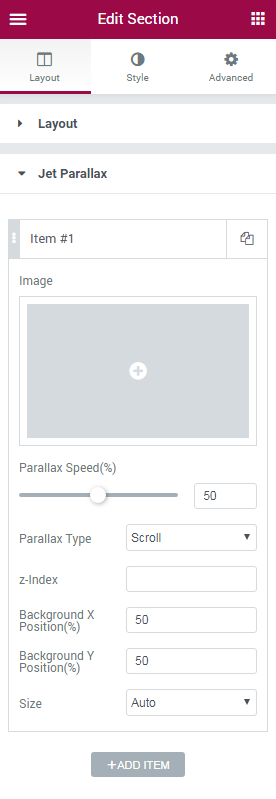
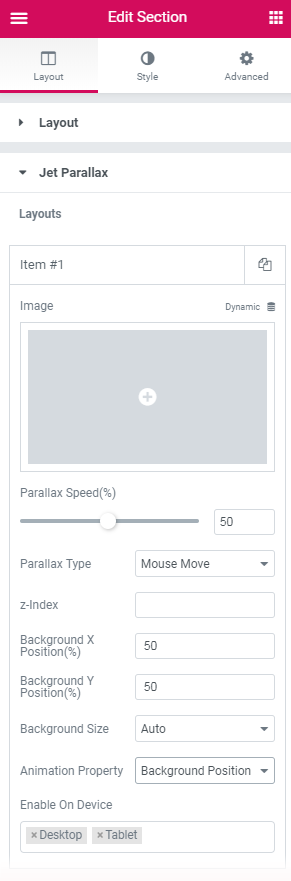
jetelements updates

diff --git a/sections/jetelements-modules/en/headline.php b/sections/jetelements-modules/en/headline.php
@@ -40,10 +40,10 @@ Headline widget is the perfect tool for creating stunningly beautiful headlines 
 <p><li><b>Direction</b> - here you can set the preferable headline direction. It can arrange text using <b>horizontal</b> or <b>vertical</b> alignment.</li></p>
 <p><li><b>Space between</b> - when using horizontal alignment, you can choose whether it is necessary to add the space between the two parts of the heading.</li></p>
 <p><li><b>Alignment</b> - here you can select the needed alignment for the headline text (<b>left, center, right</b>).</li></p>
-<p><li><b>Background type</b> - in this block you can choose, whether you want to use <b>classic</b> or <b>gradient</b> type for the headline. The customization options vary for each type. The settings are similar to the common background type settings for other <b>JetElements</b> widget.</li></p>
+<p><li><b>Background Type</b> - in this block you can choose, whether you want to use <b>classic</b> or <b>gradient</b> type for the headline. The customization options vary for each type. The settings are similar to the common background type settings for other <b>JetElements</b> widget.</li></p>
 <p><li><b>Padding</b> - here you can set the preferable custom padding for the headline. Fill in the values for the <b>top, bottom, right</b> and </b>left</li> padding in pixels to apply your custom padding.</li></p>
 <p><li><b>Margin</b> - input the values for the headline margins in the required fields.
-<p><li><b>Border type</b> - here you can define the needed border type for the headline block. It can be <b>dotted, dashed, double</b> or <b>solid</b>.</li></p>
+<p><li><b>Border Type</b> - here you can define the needed border type for the headline block. It can be <b>dotted, dashed, double</b> or <b>solid</b>.</li></p>
 <p><li><b>Border radius</b> - here you can set the border radius for the chosen border to make the border angles more round.</li></p></ul>
 
 <h6>First part</h6>
@@ -51,9 +51,25 @@ Headline widget is the perfect tool for creating stunningly beautiful headlines 
 <ul class="marked-list">
 <p><li><b>Text color</b> - here you can change the first part of the headline text color using color picker.</li></p>
 <p><li><b>Typography</b> - turn the option on to view the typography settings. They are similar to the typography settings of other <b>JetElements</b> widget.</li></p>
-<p><li><b>Background type</b> - in this block you can choose, whether you want to use <b>classic</b> or <b>gradient</b> type for the headline’s first part. The customization options vary for each type. The settings are similar to the common background type settings for other <b>JetElements</b> widget.</li></p>
-<p><li><b>Border type</b> - here you can define the type of the border you need to use for the element.</li></p>
-<p><li><b>Border radius</b> - here you can set the border radius for the chosen border to make the border angles more round.</li></p>
+<p><li><b>Background Type</b> - in this block you can choose, whether you want to use <b>classic</b> or <b>gradient</b> type for the headline’s first part. The customization options vary for each type. The settings are similar to the common background type settings for other <b>JetElements</b> widget.</li></p>
+<p><li><b>Use Text Image</b> - enable this option if you want to apply the image or gradient for the text of the headline’s first part.</li></p>
+<p>Here you can switch from customizing <b>Image</b> to <b>Gradient</b> style settings.</p>
+<p>Click on the button <b>Image</b> to proceed to customizing gradient elements.</p>
+<ul class="marked-list">
+<p><li><b>Text Image</b> - here you can select the image for the text of the headline’s first part.</li></p>
+<p><li><b>Background Position</b> - here you can define the position of the text image on the headline’s first part background.</li></p>
+<p><li><b>Background Repeat</b> - here you can set the repetition of the text image on the headline’s first part background.</li></p>
+<p><li><b>Background Size</b> - here you can determine the size of the text image on the headline’s first part background.</li></p>
+<p>Click on the button <b>Gradient</b> to proceed to customizing gradient elements.
+<ul class="marked-list">
+<p><li><b>Color</b> -  here you can set background color for the text of the headline’s first part using color picker tool.</li></p>
+<p><li><b>Location</b> - here you can define the proportion for the first color in the gradient background.</li></p>
+<p><li><b>Second Color</b> - here you can set the second color to use in the gradient background.</li></p>
+<p><li><b>Location</b> - here you can define the location for the second color in the gradient background.</li></p>
+<p><li><b>Type</b> - define, if you want to use linear or radial type of the gradient.</li></p>
+<p><li><b>Angle</b> - in this block you can set the angle for the gradient (in degrees).</li></p>
+<p><li><b>Border Type</b> - here you can define the type of the border you need to use for the element.</li></p>
+<p><li><b>Border Radius</b> - here you can set the border radius for the chosen border to make the border angles more round.</li></p>
 <p><li><b>Padding</b> - here you can set the preferable custom padding for the first part of the headline. Fill in the values for the <b>top, bottom, right</b> and <b>left</b> padding in pixels to apply your custom padding.</li></p>
 <p><li><b>Margin</b> - here you can define the margins for the first part of the headline.</li></p>
 <p><li><b>Alignment</b> - here you can define the preferable alignment for the first part of the text. It can be placed to the left, to the right, or remain centered.</li></p></ul>
@@ -61,10 +77,10 @@ Headline widget is the perfect tool for creating stunningly beautiful headlines 
 <h6>Second part</h6>
 
 <ul class="marked-list">
-<p><li><b>Text color</b> - here you can change the text color of the second part of the headline using color picker.</li></p>
+<p><li><b>Text Color</b> - here you can change the text color of the second part of the headline using color picker.</li></p>
 <p><li><b>Typography</b> - turn the option on to view the typography settings. They are similar to the typography settings of other <b>JetElements</b> widget.</li></p>
-<p><li><b>Background type</b> - in this block you can choose, whether you want to use <b>classic</b> or <b>gradient</b> type for the headline’s second part. The customization options vary for each type. The settings are similar to the common background type settings for other <b>JetElements</b> widget.</li></p>
-<p><li><b>Border radius</b> - here you can set the border radius for the chosen border to make the border angles more round.</li></p>
+<p><li><b>Background Type</b> - in this block you can choose, whether you want to use <b>classic</b> or <b>gradient</b> type for the headline’s second part. The customization options vary for each type. The settings are similar to the common background type settings for other <b>JetElements</b> widget.</li></p>
+<p><li><b>Border Radius</b> - here you can set the border radius for the chosen border to make the border angles more round.</li></p>
 <p><li><b>Padding</b> - here you can set the preferable custom padding for the second part of the headline. Fill in the values for the <b>top, bottom, right</b> and <b>left</b> padding in pixels to apply your custom padding.</li></p>
 <p><li><b>Margin</b> - here you can define the margins for the second part of the headline.</li></p>
 <p><li><b>Alignment</b> - here you can define the preferable alignment for the second part of the text. It can be placed to the <b>left</b>, to the <b>right</b>, or remain <b>centered</b>.</li></p></ul>
@@ -74,22 +90,22 @@ Headline widget is the perfect tool for creating stunningly beautiful headlines 
 <b>Before Deco Element</b>
 
 <ul class="marked-list">
-<p><li><b>Before Deco type</b> - here you can select the needed decoration type to place it before the headline element. It can be <b>Icon element, Image element</b>, or you can select <b>None</b> to use neither of these decorations.</li></p>
+<p><li><b>Before Deco Type</b> - here you can select the needed decoration type to place it before the headline element. It can be <b>Icon element, Image element</b>, or you can select <b>None</b> to use neither of these decorations.</li></p>
 <p><li><b>Before Icon</b> - when you select <b>Icon deco type</b>, you can specify the icon in this field.</li></p>
 <p><li><b>Before Icon Color</b> -  here you can specify the color of the icon using color picker tool.</li></p>
 <p><li><b>Before Icon Size</b> - use the controls to change the icon size or type in the size value in px in the corresponding field.</li></p>
 <p><li><b>Margin</b> - here you can define the margins for the icon.</li></p>
 <p><li><b>Alignment</b> -  here you can define the preferable icon alignment. It can be placed to the left, to the right, or remain centered.</li></p>
-<p><li><b>Before image</b> - in the case you’ve chosen <b>Image deco type</b>, you’ll be able to upload or select from the media library an image to use it as a decoration of the headline.</li></p>
-<p><li><b>Before image size</b> - here you can define the size of the selected image.</li></p></ul>
+<p><li><b>Before Image</b> - in the case you’ve chosen <b>Image deco type</b>, you’ll be able to upload or select from the media library an image to use it as a decoration of the headline.</li></p>
+<p><li><b>Before Image Size</b> - here you can define the size of the selected image.</li></p></ul>
 
 <b>After Deco Element</b>
 
 <ul class="marked-list">
 <p><li><b>After Deco Type</b> - here you can select the needed decoration type to place it after the headline element. It can be <b>Icon element, Image element</b>, or you can select <b>None</b> to use neither of these decorations.</li></p>
-<p><li><b>After Icon color</b> - here you can specify the color of the icon using color picker tool.</li></p>
-<p><li><b>After icon size</b> - use the controls to change the icon size or type in the size value in px in the corresponding field.</li></p>
+<p><li><b>After Icon Color</b> - here you can specify the color of the icon using color picker tool.</li></p>
+<p><li><b>After icon Size</b> - use the controls to change the icon size or type in the size value in px in the corresponding field.</li></p>
 <p><li><b>Margin</b> - here you can define the margins for the icon.</li></p>
 <p><li><b>Alignment</b> - here you can define the preferable icon alignment. It can be placed to the left, to the right, or remain centered.</li></p>
-<p><li><b>After image</b> - in the case you’ve chosen <b>Image deco type</b>, you’ll be able to upload or select from the media library an image to use it as a decoration of the headline.</li></p>
-<p><li><b>After image size</b> - here you can define the size of the selected image.</li></p></ul>
+<p><li><b>After Image</b> - in the case you’ve chosen <b>Image deco type</b>, you’ll be able to upload or select from the media library an image to use it as a decoration of the headline.</li></p>
+<p><li><b>After Image Size</b> - here you can define the size of the selected image.</li></p></ul>

diff --git a/sections/jetelements-modules/en/portfolio.php b/sections/jetelements-modules/en/portfolio.php
@@ -22,11 +22,12 @@ Portfolio widget allows displaying Portfolio in the form of eye-catching layouts
   	</figure>
 
 <ul class="marked-list">
-<p><li><b>Layout type</b> - here you can select the needed layout type to use for the portfolio (masonry, grid, justify, list).
+<p><li><b>Layout Type</b> - here you can select the needed layout type to use for the portfolio (masonry, grid, justify, list).
 </li></p>
 <p><li><b>Preset</b> - here you can pick the preferable preset to use for the portfolio items.</li></p>
 
 <p><li><b>Columns</b> - here you can set the preferable number of columns (from 1 to 6). </li></p>
+<p><li><b>'All' Filter Label</b> - here you can indicate the label for the all filters. </li></p>
 
 <p><li><b>View More Button</b> - enable this option in order to add a View More button to the portfolio. </li></p>
 
@@ -51,7 +52,8 @@ Portfolio widget allows displaying Portfolio in the form of eye-catching layouts
 
 <p><li><b>Link Text</b> - here you can add the link text to be shown for the item. </li></p>
 
-<p><li><b>Link URL</b> - input the link URL in the corresponding field.</li></p></ul>
+<p><li><b>Link URL</b> - input the link URL in the corresponding field.</li></p>
+<p><li><b>Title HTML Tag</b> - here you can select the HTML tag (div, or heading) to apply for the title. </li></p></ul>
 
 
 <h4>Style</h4>
@@ -100,6 +102,7 @@ Portfolio widget allows displaying Portfolio in the form of eye-catching layouts
 <p><li><b>Separator Size</b> - here you can adjust the separator icon size to make it suitable and responsive. </li></p>
 
 <p><li><b>Alignment</b> - change the alignment to the left, right or centered and make it responsive using the responsiveness modes. </li></p>
+<p>Here you can switch from customizing the filter items in the <b>Normal</b> mode to styling them up in <b>Hover</b> mode and <b>Active</b> mode. To do it just switch between this three modes.
 
 <p><li><b>Color</b> - here you can change the color of the categories using color picker tool. </li></p>
 
@@ -110,15 +113,11 @@ Portfolio widget allows displaying Portfolio in the form of eye-catching layouts
 <p><li><b>Padding</b> - input the preferable responsive padding values in order to set the paddings for the portfolio. </li></p>
 
 <p><li><b>Margin</b> - here you can specify the responsive margins. </li></p>
-
 <p><li><b>Border Type</b> - here you can select one of the available border types to use: none, solid, double, dotted, dashed or groove.</li></p>
 <p><li><b>Width</b> - here you can define the width of the border in px.</li></p>
 <p><li><b>Color</b> - here you can change the color of the borders.</li></p>
 <p><li><b>Border Radius</b> - here you can set the border radius for the chosen border to make the border angles more round.</li></p>
-
-
 <p><li><b>Box Shadow</b> - click on the pencil icon to access the shadow option and apply the shadow for the element.</li></p></ul>
-
 
 
 <h5>Content</h5>
@@ -245,10 +244,7 @@ Portfolio widget allows displaying Portfolio in the form of eye-catching layouts
 
 <ul class="marked-list">
 <p><li><b>Cover Icon</b> - here you can define the icon for the cover from the list of available icons.</li></p>
-
-<p><li><b>Background Type</b> - in this block you can choose, whether you want to use classic or gradient type for the widget containers. The customization options vary for each type.
-
-<p><li><b>Cover Icon Settings:</b>
+<p><li><b>Cover Icon Style</b> - here you can set the style settings of the cover icon:
 
 <ul class="marked-list">
 <p><li><b>background type;</b></li></p>
@@ -259,7 +255,28 @@ Portfolio widget allows displaying Portfolio in the form of eye-catching layouts
 <p><li><b>border radius;</b></li></p>
 <p><li><b>box shadow.</b></li></p></ul>
 
+<p><li><b>Background Type</b> - in this block you can choose, whether you want to use <b>Classic</b> or <b>Gradient</b> type for the widget containers. The customization options vary for each type.
 
+<p>Click on the button <b>Classic</b> to proceed to customizing classic type.
+<ul class="marked-list">
+<p><li><b>Color</b> -  here you can set background color for the cover using color picker tool.</li></p>
+<p><li><b>Image</b> - here you can define the background image for the cover.</li></p>
+<p><li><b>Position</b> - here you can define the position of the background image.</li></p>
+<p><li><b>Attachment</b> - here you can define the attachment of the background image.</li></p>
+<p><li><b>Repeat</b> - here you can define the repetition of the background image.</li></p>
+<p><li><b>Size</b> - here you can define the size of the background image.</li></p>
+
+<p>Click on the button <b>Gradient</b> to proceed to customizing gradient type.
+<ul class="marked-list">
+<p><li><b>Color</b> -  here you can set background color for the cover using color picker tool.</li></p>
+<p><li><b>Image</b> - here you can define the background image for the cover.</li></p>
+<p><li><b>Location</b> - here you can define the proportion for the first color in the gradient background.</li></p>
+<p><li><b>Second Color</b> - here you can set the second color to use in the gradient background.</li></p>
+<p><li><b>Type</b> - define, if you want to use linear or radial type of the gradient.</li></p>
+<p><li><b>Angle</b> - in this block you can set the angle for the gradient (in degrees).</li></p>
+<p><li><b>Location</b> - here you can define the proportion for the second color in the gradient background.</li></p>
+<p><li><b>Border Radius</b> - here you can set the border radius for the chosen border to make the border angles more round.</li></p>
+<p><li><b>Margin</b> - here you can define the margins for the cover on the background.</li></p>
 </li></p></ul>
 
 

diff --git a/sections/jetelements-parallax/en/__description.php b/sections/jetelements-parallax/en/__description.php
@@ -38,7 +38,7 @@
     </figure>
 
 <ul class="marked-list">
-<p><li>Click on the newly created item and there click <b>Image</b> to add a new image from the media library or upload it from your hard drive.</li></p>
+<p><li>Click on the newly created item and there click <b>Image</b> to add a new image from the media library or upload it from your hard drive. Also you can add dynamic custom image.</li></p>
 <p><li>To change the speed of the parallax effect you need to use the <b>Parallax Speed</b> control. Drag it leftwards to reduce the speed, or rightwards to increase it.</li></p>
 <p><li>Select the parallax type from the <b>Parallax Type</b> dropdown list.
 <ul class="marked-list">
@@ -48,7 +48,9 @@
 
 <p><li><b>Background X Position %</b> - define the item’s horizontal position in percents in relation to the background.</li></p>
 <p><li><b>Background Y Position %</b> - define the item’s vertical position in percents in relation to the background.</li></p>
-<p><li><b>Size</b> - here you can select the preferable size for the item (Auto, Cover or Contain).
+<p><li><b>Background Size</b> - here you can select the preferable size for the item (Auto, Cover or Contain).</li></p>
+<p><li><b>Animation Property</b> - here you can define the animation effect for the item (Background position, Transform, Transform 3D)</li></p>
+<p><li><b>Enable on Device</b> - here you can specify the devices, where the item appears.</li></p>
 
 Note, that you can add as many items with different parallax settings (speed, position), as you need.
 

diff --git a/sections/jetelements-changelog/en/__description.php b/sections/jetelements-changelog/en/__description.php
@@ -2,6 +2,14 @@
 
 <h5>In this block you can view the latest updates for JetElements plugin.</h5>
 
+<h4>Version 1.14.7 (December 12, 2018)</h4>
+<ul class="marked-list">
+<p><li>Added an ability to use dynamic tags  in the sections with parallax effect;</li></p>
+<p><li>Added compatibility of URL controls with WPML plugin in widgets;</li></p>
+<p><li>Added gradient options for text elements in the Headline Widget;</li></p>
+<p><li>Fixed display of filtered items in the Portfolio Widget.</li></p>
+
+
 <h4>Version 1.14.6 (November 30, 2018)</h4>
 
 <ul class="marked-list">
@@ -9,7 +17,7 @@
 <p><li>Added Image Size option in the Images Layout Widget;</li></p>
 <p><li>Added Image Size option in the Portfolio Widget;</li></p>
 <p><li>Fixed compatibility with Elementor 2.3.3;</li><p>
-<p><li>Fixed: html validation errors in the Table Widget.</li></p>
+<p><li>Fixed html validation errors in the Table Widget.</li></p>
 </ul>
 </ul>
 
